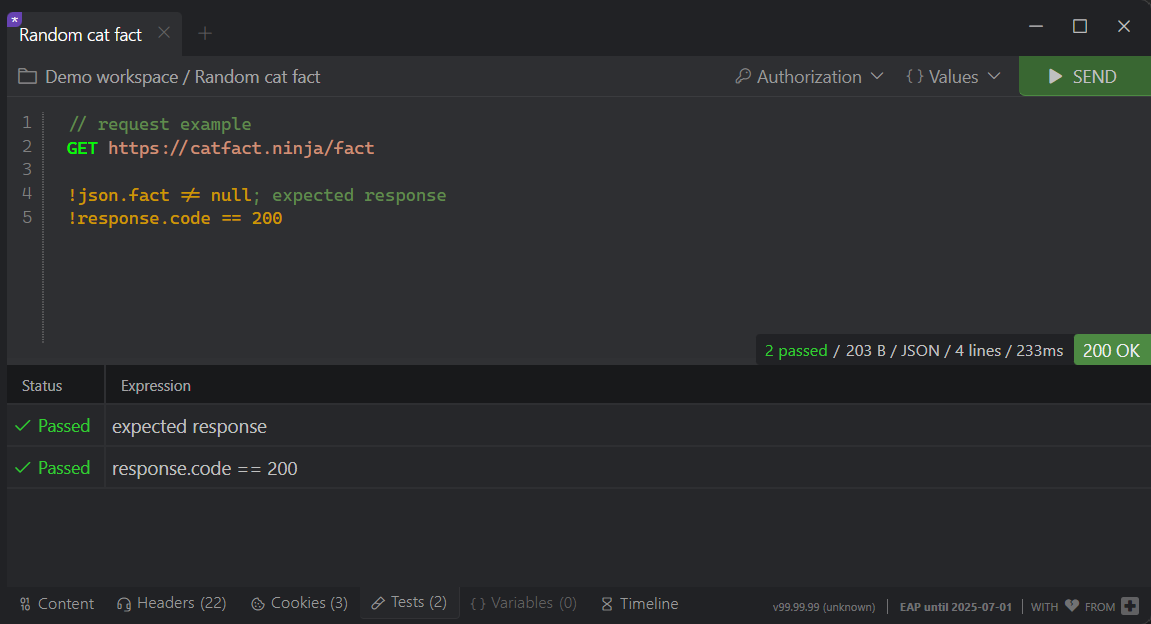
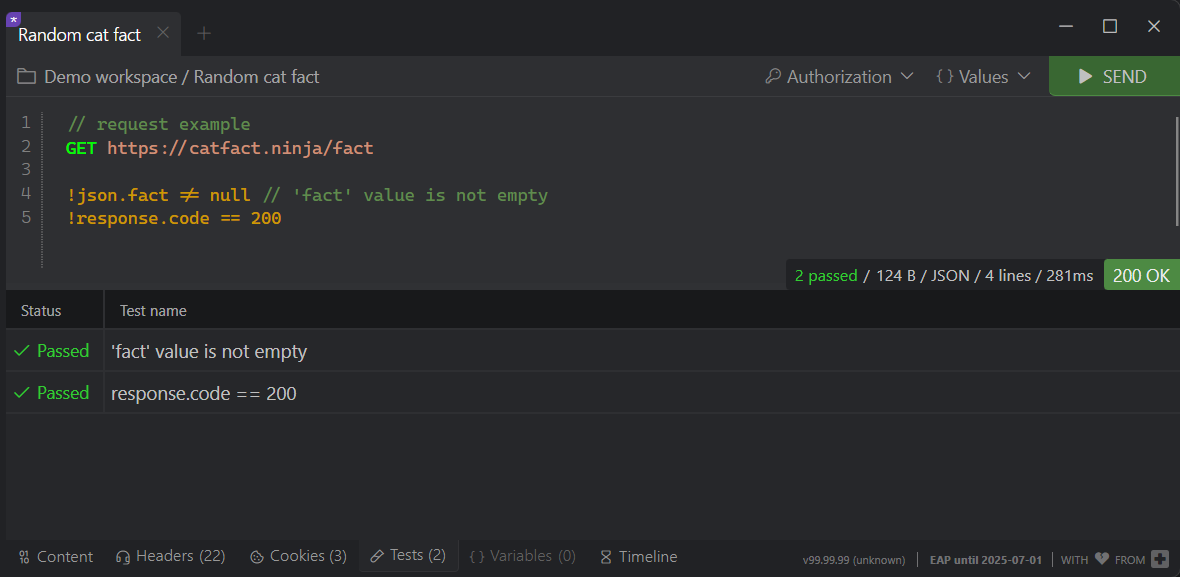
test title documentation updated

diff --git a/pages/features/tests.md b/pages/features/tests.md
@@ -16,10 +16,10 @@ Tests are written inline in request definitions using the `!` prefix. They are e
 ### Example Test Usage
 
 ```plaintext
-!response.code == 200  // Validates HTTP status code
-!json.id == "abc"  // Validates JSON response property
-!response.time.milliseconds < 500; expect Fast response
-!response.length.kb > 3; expect Sufficient payload size
+!response.code == 200
+!json.id == "abc"
+!response.time.milliseconds < 500 // expect Fast response
+!response.length.kb > 3 // expect Sufficient payload size
 ```
 
 ## Available Test Properties
@@ -47,17 +47,17 @@ Test commands in RestApia allow you to validate different aspects of API respons
 If the response contains JSON, the `json` object is automatically available for property validation.
 
 ```plaintext
-!json.name == "admin"  // Validates user role
-!json.roles.contains("editor")  // Checks if roles array contains "editor"
+!json.name == "admin"  // valid user role
+!json.roles.contains("editor")  // roles array contains "editor"
 ```
 
 ## Custom Test Naming
 
-By default, test results display the original validation expression. You can provide custom test names using `; expect <description>`.
+By default, test results display the original validation expression. You can provide custom test names using comments in the same line with test `// expect <description>`.
 
 ```plaintext
-!response.code == 200; expect OK HTTP code
-!response.time.milliseconds < 500; expect Fast response
+!response.code == 200 // expect OK HTTP code
+!response.time.milliseconds < 500 // expect Fast response
 ```
 
 These descriptions appear in the **Tests** tab alongside pass/fail statuses.
